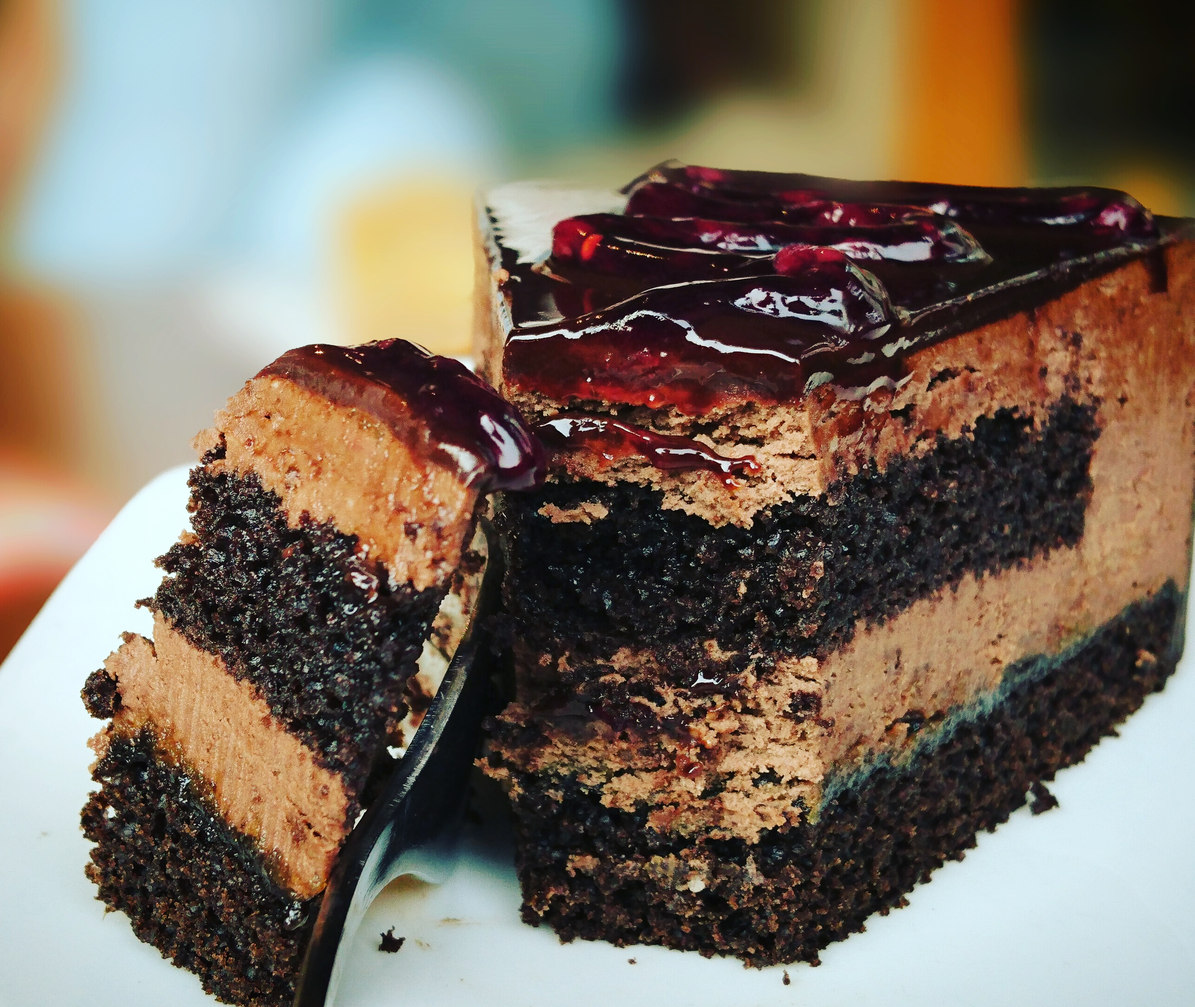
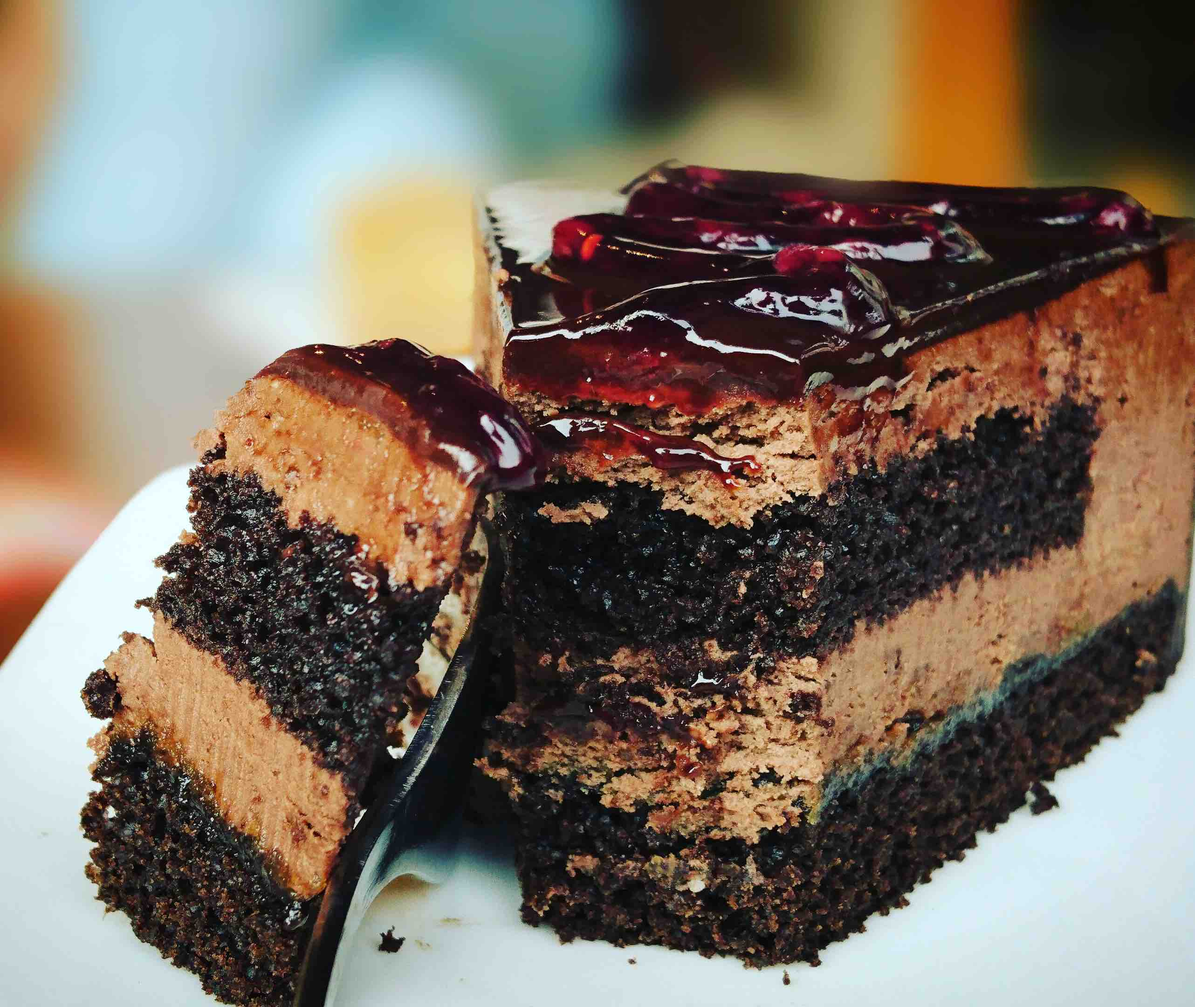
image tweaks

diff --git a/src/styles.css b/src/styles.css
@@ -71,9 +71,9 @@
   background-size: cover;
   background-repeat: no-repeat;
 
-  -webkit-filter: blur(2px);
-  -moz-filter: blur(2px);
-  -o-filter: blur(2px);
-  -ms-filter: blur(2px);
-  filter: blur(2px);
+  -webkit-filter: blur(3px);
+  -moz-filter: blur(3px);
+  -o-filter: blur(3px);
+  -ms-filter: blur(3px);
+  filter: blur(3px);
 }

diff --git a/src/app/cee/cee.css b/src/app/cee/cee.css
@@ -3,7 +3,7 @@
 }
 
 .container {
-  opacity: 0.9;
+  opacity: 0.8;
 }
 
 .sources-selector {
